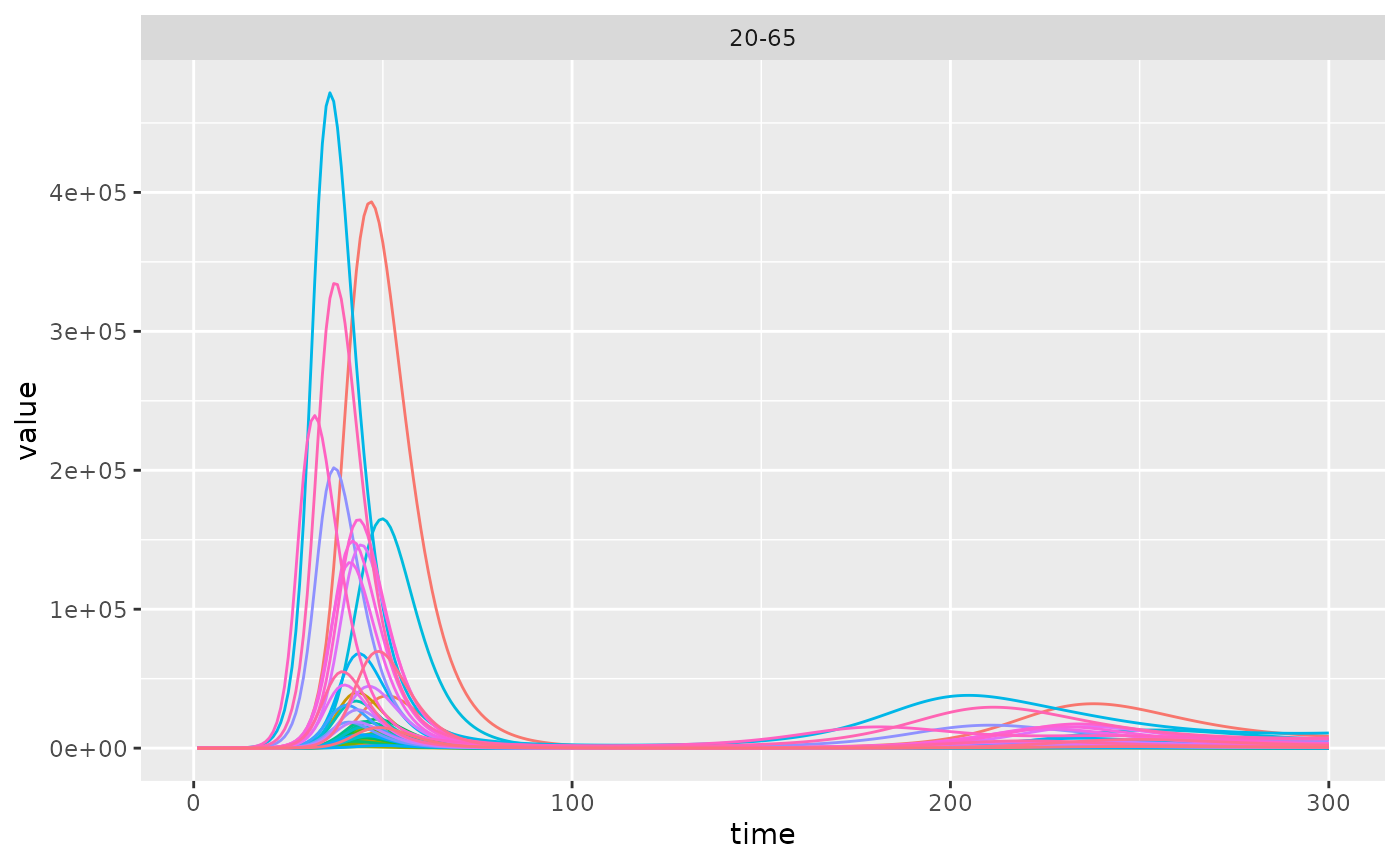
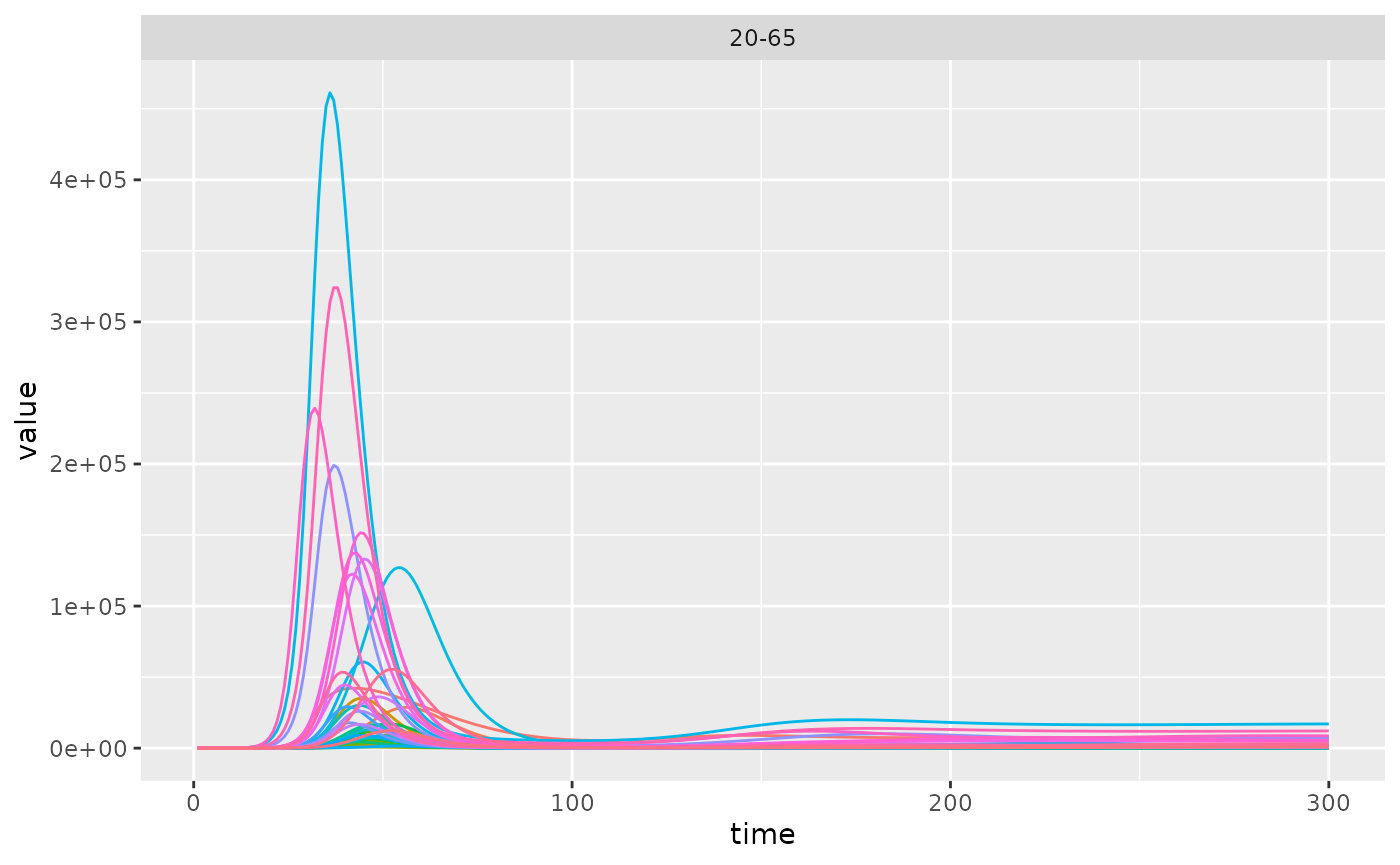
Deploying to gh-pages from @ jameel-institute/daedalus@32c74cb9c1786f2598ecbbac6e1eae20a7282f38 🚀

diff --git a/reference/get_distancing_coefficient.html b/reference/get_distancing_coefficient.html
@@ -1,0 +1,111 @@
+<!DOCTYPE html>
+<!-- Generated by pkgdown: do not edit by hand --><html lang="en"><head><meta http-equiv="Content-Type" content="text/html; charset=UTF-8"><meta charset="utf-8"><meta http-equiv="X-UA-Compatible" content="IE=edge"><meta name="viewport" content="width=device-width, initial-scale=1, shrink-to-fit=no"><title>Coefficient to scale transmission by public concern about the pandemic — get_distancing_coefficient • daedalus</title><script src="../deps/jquery-3.6.0/jquery-3.6.0.min.js"></script><meta name="viewport" content="width=device-width, initial-scale=1, shrink-to-fit=no"><link href="../deps/bootstrap-5.3.1/bootstrap.min.css" rel="stylesheet"><script src="../deps/bootstrap-5.3.1/bootstrap.bundle.min.js"></script><link href="../deps/font-awesome-6.4.2/css/all.min.css" rel="stylesheet"><link href="../deps/font-awesome-6.4.2/css/v4-shims.min.css" rel="stylesheet"><script src="../deps/headroom-0.11.0/headroom.min.js"></script><script src="../deps/headroom-0.11.0/jQuery.headroom.min.js"></script><script src="../deps/bootstrap-toc-1.0.1/bootstrap-toc.min.js"></script><script src="../deps/clipboard.js-2.0.11/clipboard.min.js"></script><script src="../deps/search-1.0.0/autocomplete.jquery.min.js"></script><script src="../deps/search-1.0.0/fuse.min.js"></script><script src="../deps/search-1.0.0/mark.min.js"></script><!-- pkgdown --><script src="../pkgdown.js"></script><meta property="og:title" content="Coefficient to scale transmission by public concern about the pandemic — get_distancing_coefficient"><meta name="description" content="The social distancing coefficient is a value between 1.0 and an
+arbitrary lower limit, which is used to scale the transmission rate and
+represents public concern around the pandemic. The coefficient is 1.0 when
+there are no deaths, and reduces asymptotically to the lower limit as deaths
+increase. Social distancing begins when closures begin, and ends when
+vaccination is complete (not yet implemented)."><meta property="og:description" content="The social distancing coefficient is a value between 1.0 and an
+arbitrary lower limit, which is used to scale the transmission rate and
+represents public concern around the pandemic. The coefficient is 1.0 when
+there are no deaths, and reduces asymptotically to the lower limit as deaths
+increase. Social distancing begins when closures begin, and ends when
+vaccination is complete (not yet implemented)."></head><body>
+    <a href="#main" class="visually-hidden-focusable">Skip to contents</a>
+
+
+    <nav class="navbar navbar-expand-lg fixed-top bg-light" data-bs-theme="light" aria-label="Site navigation"><div class="container">
+
+    <a class="navbar-brand me-2" href="../index.html">daedalus</a>
+
+    <small class="nav-text text-muted me-auto" data-bs-toggle="tooltip" data-bs-placement="bottom" title="Released version">0.0.9</small>
+
+
+    <button class="navbar-toggler" type="button" data-bs-toggle="collapse" data-bs-target="#navbar" aria-controls="navbar" aria-expanded="false" aria-label="Toggle navigation">
+      <span class="navbar-toggler-icon"></span>
+    </button>
+
+    <div id="navbar" class="collapse navbar-collapse ms-3">
+      <ul class="navbar-nav me-auto"><li class="nav-item"><a class="nav-link" href="../articles/daedalus.html">Get started</a></li>
+<li class="active nav-item"><a class="nav-link" href="../reference/index.html">Reference</a></li>
+<li class="nav-item dropdown">
+  <button class="nav-link dropdown-toggle" type="button" id="dropdown-articles" data-bs-toggle="dropdown" aria-expanded="false" aria-haspopup="true">Articles</button>
+  <ul class="dropdown-menu" aria-labelledby="dropdown-articles"><li><a class="dropdown-item" href="../articles/pandemic_costs.html">Evaluating the costs of pandemic scenarios</a></li>
+    <li><a class="dropdown-item" href="../articles/thresholded_response.html">Modelling threshold-dependent economic closures</a></li>
+  </ul></li>
+<li class="nav-item"><a class="nav-link" href="../news/index.html">Changelog</a></li>
+      </ul><ul class="navbar-nav"><li class="nav-item"><form class="form-inline" role="search">
+ <input class="form-control" type="search" name="search-input" id="search-input" autocomplete="off" aria-label="Search site" placeholder="Search for" data-search-index="../search.json"></form></li>
+<li class="nav-item"><a class="external-link nav-link" href="https://github.com/j-idea/daedalus/" aria-label="GitHub"><span class="fa fab fa-github fa-lg"></span></a></li>
+      </ul></div>
+
+
+  </div>
+</nav><div class="container template-reference-topic">
+<div class="row">
+  <main id="main" class="col-md-9"><div class="page-header">
+
+      <h1>Coefficient to scale transmission by public concern about the pandemic</h1>
+      <small class="dont-index">Source: <a href="https://github.com/j-idea/daedalus/blob/main/R/social_distancing.R" class="external-link"><code>R/social_distancing.R</code></a></small>
+      <div class="d-none name"><code>get_distancing_coefficient.Rd</code></div>
+    </div>
+
+    <div class="ref-description section level2">
+    <p>The social distancing coefficient is a value between 1.0 and an
+arbitrary lower limit, which is used to scale the transmission rate and
+represents public concern around the pandemic. The coefficient is 1.0 when
+there are no deaths, and reduces asymptotically to the lower limit as deaths
+increase. Social distancing begins when closures begin, and ends when
+vaccination is complete (<em>not yet implemented</em>).</p>
+    </div>
+
+    <div class="section level2">
+    <h2 id="ref-usage">Usage<a class="anchor" aria-label="anchor" href="#ref-usage"></a></h2>
+    <div class="sourceCode"><pre class="sourceCode r"><code><span><span class="fu">get_distancing_coefficient</span><span class="op">(</span><span class="va">new_deaths</span>, rate <span class="op">=</span> <span class="fl">0.01</span>, lower_limit <span class="op">=</span> <span class="fl">0.2</span><span class="op">)</span></span></code></pre></div>
+    </div>
+
+    <div class="section level2">
+    <h2 id="arguments">Arguments<a class="anchor" aria-label="anchor" href="#arguments"></a></h2>
+
+
+<dl><dt id="arg-new-deaths">new_deaths<a class="anchor" aria-label="anchor" href="#arg-new-deaths"></a></dt>
+<dd><p>The number of new deaths at time <code>t</code>.</p></dd>
+
+
+<dt id="arg-rate">rate<a class="anchor" aria-label="anchor" href="#arg-rate"></a></dt>
+<dd><p>The proportional reduction of social contacts due to each
+additional death. Defaults to 0.01, or a 1% decrease for each additional
+death.</p></dd>
+
+
+<dt id="arg-lower-limit">lower_limit<a class="anchor" aria-label="anchor" href="#arg-lower-limit"></a></dt>
+<dd><p>The lower limit to which social contacts can be reduced.
+Defaults to 0.2, which is equivalent to a greater than a 50% reduction in
+incoming and outgoing contacts.</p></dd>
+
+</dl></div>
+    <div class="section level2">
+    <h2 id="value">Value<a class="anchor" aria-label="anchor" href="#value"></a></h2>
+    <p>A single number between 1 and <code>lower_limit</code> for the social distancing
+coefficient.</p>
+    </div>
+
+  </main><aside class="col-md-3"><nav id="toc" aria-label="Table of contents"><h2>On this page</h2>
+    </nav></aside></div>
+
+
+    <footer><div class="pkgdown-footer-left">
+  <p>Developed by Pratik Gupte.</p>
+</div>
+
+<div class="pkgdown-footer-right">
+  <p>Site built with <a href="https://pkgdown.r-lib.org/" class="external-link">pkgdown</a> 2.1.1.</p>
+</div>
+
+    </footer></div>
+
+
+
+
+
+  </body></html>
+

diff --git a/reference/get_costs.html b/reference/get_costs.html
@@ -7,7 +7,7 @@
 
     <a class="navbar-brand me-2" href="../index.html">daedalus</a>
 
-    <small class="nav-text text-muted me-auto" data-bs-toggle="tooltip" data-bs-placement="bottom" title="Released version">0.0.8</small>
+    <small class="nav-text text-muted me-auto" data-bs-toggle="tooltip" data-bs-placement="bottom" title="Released version">0.0.9</small>
 
 
     <button class="navbar-toggler" type="button" data-bs-toggle="collapse" data-bs-target="#navbar" aria-controls="navbar" aria-expanded="false" aria-label="Toggle navigation">
@@ -111,37 +111,37 @@ to have the same value.</p>
 <span class="r-in"><span></span></span>
 <span class="r-in"><span><span class="fu">get_costs</span><span class="op">(</span><span class="va">output</span><span class="op">)</span></span></span>
 <span class="r-out co"><span class="r-pr">#&gt;</span> $total_cost</span>
-<span class="r-out co"><span class="r-pr">#&gt;</span> [1] 1080754</span>
+<span class="r-out co"><span class="r-pr">#&gt;</span> [1] 354087.8</span>
 <span class="r-out co"><span class="r-pr">#&gt;</span> </span>
 <span class="r-out co"><span class="r-pr">#&gt;</span> $economic_costs</span>
 <span class="r-out co"><span class="r-pr">#&gt;</span> $economic_costs$economic_cost_total</span>
-<span class="r-out co"><span class="r-pr">#&gt;</span> [1] 20582.91</span>
+<span class="r-out co"><span class="r-pr">#&gt;</span> [1] 18071.59</span>
 <span class="r-out co"><span class="r-pr">#&gt;</span> </span>
 <span class="r-out co"><span class="r-pr">#&gt;</span> $economic_costs$economic_cost_closures</span>
 <span class="r-out co"><span class="r-pr">#&gt;</span> [1] 0</span>
 <span class="r-out co"><span class="r-pr">#&gt;</span> </span>
 <span class="r-out co"><span class="r-pr">#&gt;</span> $economic_costs$economic_cost_absences</span>
-<span class="r-out co"><span class="r-pr">#&gt;</span> [1] 20582.91</span>
+<span class="r-out co"><span class="r-pr">#&gt;</span> [1] 18071.59</span>
 <span class="r-out co"><span class="r-pr">#&gt;</span> </span>
 <span class="r-out co"><span class="r-pr">#&gt;</span> </span>
 <span class="r-out co"><span class="r-pr">#&gt;</span> $education_costs</span>
 <span class="r-out co"><span class="r-pr">#&gt;</span> $education_costs$education_cost_total</span>
-<span class="r-out co"><span class="r-pr">#&gt;</span> [1] 1372.606</span>
+<span class="r-out co"><span class="r-pr">#&gt;</span> [1] 1335.015</span>
 <span class="r-out co"><span class="r-pr">#&gt;</span> </span>
 <span class="r-out co"><span class="r-pr">#&gt;</span> $education_costs$education_cost_closures</span>
 <span class="r-out co"><span class="r-pr">#&gt;</span> [1] 0</span>
 <span class="r-out co"><span class="r-pr">#&gt;</span> </span>
 <span class="r-out co"><span class="r-pr">#&gt;</span> $education_costs$education_cost_absences</span>
-<span class="r-out co"><span class="r-pr">#&gt;</span> [1] 1372.606</span>
+<span class="r-out co"><span class="r-pr">#&gt;</span> [1] 1335.015</span>
 <span class="r-out co"><span class="r-pr">#&gt;</span> </span>
 <span class="r-out co"><span class="r-pr">#&gt;</span> </span>
 <span class="r-out co"><span class="r-pr">#&gt;</span> $life_years_lost</span>
 <span class="r-out co"><span class="r-pr">#&gt;</span> $life_years_lost$life_years_lost_total</span>
-<span class="r-out co"><span class="r-pr">#&gt;</span> [1] 1058799</span>
+<span class="r-out co"><span class="r-pr">#&gt;</span> [1] 334681.2</span>
 <span class="r-out co"><span class="r-pr">#&gt;</span> </span>
 <span class="r-out co"><span class="r-pr">#&gt;</span> $life_years_lost$life_years_lost_age</span>
-<span class="r-out co"><span class="r-pr">#&gt;</span>      0-4     5-19    20-65      65+ </span>
-<span class="r-out co"><span class="r-pr">#&gt;</span> 145010.9 466524.9 342897.1 104365.6 </span>
+<span class="r-out co"><span class="r-pr">#&gt;</span>        0-4       5-19      20-65        65+ </span>
+<span class="r-out co"><span class="r-pr">#&gt;</span>   6274.666  57194.460 268082.938   3129.118 </span>
 <span class="r-out co"><span class="r-pr">#&gt;</span> </span>
 <span class="r-out co"><span class="r-pr">#&gt;</span> </span>
 </code></pre></div>

diff --git a/news/index.html b/news/index.html
@@ -7,7 +7,7 @@
 
     <a class="navbar-brand me-2" href="../index.html">daedalus</a>
 
-    <small class="nav-text text-muted me-auto" data-bs-toggle="tooltip" data-bs-placement="bottom" title="Released version">0.0.8</small>
+    <small class="nav-text text-muted me-auto" data-bs-toggle="tooltip" data-bs-placement="bottom" title="Released version">0.0.9</small>
 
 
     <button class="navbar-toggler" type="button" data-bs-toggle="collapse" data-bs-target="#navbar" aria-controls="navbar" aria-expanded="false" aria-label="Toggle navigation">
@@ -38,6 +38,14 @@
       <small>Source: <a href="https://github.com/j-idea/daedalus/blob/main/NEWS.md" class="external-link"><code>NEWS.md</code></a></small>
     </div>
 
+    <div class="section level2">
+<h2 class="pkg-version" data-toc-text="0.0.9" id="daedalus-009">daedalus 0.0.9<a class="anchor" aria-label="anchor" href="#daedalus-009"></a></h2>
+<p>This patch version adds a spontaneous social distancing mechanism to the model in the internal function <code><a href="../reference/get_distancing_coefficient.html">get_distancing_coefficient()</a></code>, which modifies the infection transmission rate based on the number of new deaths. The intention is to model public concern that leads to a spontaneous reduction in community social contacts.</p>
+<ul><li>Social distancing is independent of the specific response strategy chosen, but is active while a response strategy is active. In future, social distancing will be conditioned on vaccination regime completion.</li>
+<li>Social distancing is active in the ‘no response’ scenario.</li>
+<li>Workplace contacts are not affected.</li>
+<li>Social distancing scales the transmission rate by a value between 1.0 (no distancing) and the <code>lower_limit</code> (arbitrary value of 0.2) using an exponential decay function.</li>
+</ul></div>
     <div class="section level2">
 <h2 class="pkg-version" data-toc-text="0.0.8" id="daedalus-008">daedalus 0.0.8<a class="anchor" aria-label="anchor" href="#daedalus-008"></a></h2>
 <p>This patch adds hospital capacity data and two downstream effects.</p>

diff --git a/authors.html b/authors.html
@@ -7,7 +7,7 @@
 
     <a class="navbar-brand me-2" href="index.html">daedalus</a>
 
-    <small class="nav-text text-muted me-auto" data-bs-toggle="tooltip" data-bs-placement="bottom" title="Released version">0.0.8</small>
+    <small class="nav-text text-muted me-auto" data-bs-toggle="tooltip" data-bs-placement="bottom" title="Released version">0.0.9</small>
 
 
     <button class="navbar-toggler" type="button" data-bs-toggle="collapse" data-bs-target="#navbar" aria-controls="navbar" aria-expanded="false" aria-label="Toggle navigation">
@@ -56,13 +56,13 @@
 
       <p>Gupte P (2024).
 <em>daedalus: Model health, social, and economic costs of a pandemic using _DAEDALUS_</em>.
-R package version 0.0.8, <a href="https://github.com/j-idea/daedalus" class="external-link">https://github.com/j-idea/daedalus</a>.
+R package version 0.0.9, <a href="https://github.com/j-idea/daedalus" class="external-link">https://github.com/j-idea/daedalus</a>.
 </p>
       <pre>@Manual{,
   title = {daedalus: Model health, social, and economic costs of a pandemic using _DAEDALUS_},
   author = {Pratik Gupte},
   year = {2024},
-  note = {R package version 0.0.8},
+  note = {R package version 0.0.9},
   url = {https://github.com/j-idea/daedalus},
 }</pre>
     </div>

diff --git a/reference/index.html b/reference/index.html
@@ -7,7 +7,7 @@
 
     <a class="navbar-brand me-2" href="../index.html">daedalus</a>
 
-    <small class="nav-text text-muted me-auto" data-bs-toggle="tooltip" data-bs-placement="bottom" title="Released version">0.0.8</small>
+    <small class="nav-text text-muted me-auto" data-bs-toggle="tooltip" data-bs-placement="bottom" title="Released version">0.0.9</small>
 
 
     <button class="navbar-toggler" type="button" data-bs-toggle="collapse" data-bs-target="#navbar" aria-controls="navbar" aria-expanded="false" aria-label="Toggle navigation">
@@ -244,6 +244,12 @@
 
         </dt>
         <dd>Get closure time limits and calculate duration</dd>
+      </dl><dl><dt>
+
+          <code><a href="get_distancing_coefficient.html">get_distancing_coefficient()</a></code>
+
+        </dt>
+        <dd>Coefficient to scale transmission by public concern about the pandemic</dd>
       </dl><dl><dt>
 
           <code><a href="get_hospitalisations.html">get_hospitalisations()</a></code>

diff --git a/reference/class_daedalus_output.html b/reference/class_daedalus_output.html
@@ -13,7 +13,7 @@ Print &amp;lt;daedalus_output&amp;gt; class objects"></head><body>
 
     <a class="navbar-brand me-2" href="../index.html">daedalus</a>
 
-    <small class="nav-text text-muted me-auto" data-bs-toggle="tooltip" data-bs-placement="bottom" title="Released version">0.0.8</small>
+    <small class="nav-text text-muted me-auto" data-bs-toggle="tooltip" data-bs-placement="bottom" title="Released version">0.0.9</small>
 
 
     <button class="navbar-toggler" type="button" data-bs-toggle="collapse" data-bs-target="#navbar" aria-controls="navbar" aria-expanded="false" aria-label="Toggle navigation">

diff --git a/reference/class_country.html b/reference/class_country.html
@@ -15,7 +15,7 @@ characteristics for the DAEDALUS model."></head><body>
 
     <a class="navbar-brand me-2" href="../index.html">daedalus</a>
 
-    <small class="nav-text text-muted me-auto" data-bs-toggle="tooltip" data-bs-placement="bottom" title="Released version">0.0.8</small>
+    <small class="nav-text text-muted me-auto" data-bs-toggle="tooltip" data-bs-placement="bottom" title="Released version">0.0.9</small>
 
 
     <button class="navbar-toggler" type="button" data-bs-toggle="collapse" data-bs-target="#navbar" aria-controls="navbar" aria-expanded="false" aria-label="Toggle navigation">

diff --git a/reference/class_infection.html b/reference/class_infection.html
@@ -15,7 +15,7 @@ characteristics for the DAEDALUS model."></head><body>
 
     <a class="navbar-brand me-2" href="../index.html">daedalus</a>
 
-    <small class="nav-text text-muted me-auto" data-bs-toggle="tooltip" data-bs-placement="bottom" title="Released version">0.0.8</small>
+    <small class="nav-text text-muted me-auto" data-bs-toggle="tooltip" data-bs-placement="bottom" title="Released version">0.0.9</small>
 
 
     <button class="navbar-toggler" type="button" data-bs-toggle="collapse" data-bs-target="#navbar" aria-controls="navbar" aria-expanded="false" aria-label="Toggle navigation">

diff --git a/reference/model_constants.html b/reference/model_constants.html
@@ -11,7 +11,7 @@ specific to the epidemiological model."></head><body>
 
     <a class="navbar-brand me-2" href="../index.html">daedalus</a>
 
-    <small class="nav-text text-muted me-auto" data-bs-toggle="tooltip" data-bs-placement="bottom" title="Released version">0.0.8</small>
+    <small class="nav-text text-muted me-auto" data-bs-toggle="tooltip" data-bs-placement="bottom" title="Released version">0.0.9</small>
 
 
     <button class="navbar-toggler" type="button" data-bs-toggle="collapse" data-bs-target="#navbar" aria-controls="navbar" aria-expanded="false" aria-label="Toggle navigation">

diff --git a/reference/closure_data.html b/reference/closure_data.html
@@ -13,7 +13,7 @@ implementation ("heavy" and "light").'></head><body>
 
     <a class="navbar-brand me-2" href="../index.html">daedalus</a>
 
-    <small class="nav-text text-muted me-auto" data-bs-toggle="tooltip" data-bs-placement="bottom" title="Released version">0.0.8</small>
+    <small class="nav-text text-muted me-auto" data-bs-toggle="tooltip" data-bs-placement="bottom" title="Released version">0.0.9</small>
 
 
     <button class="navbar-toggler" type="button" data-bs-toggle="collapse" data-bs-target="#navbar" aria-controls="navbar" aria-expanded="false" aria-label="Toggle navigation">

diff --git a/reference/country_data.html b/reference/country_data.html
@@ -27,7 +27,7 @@ missing data for a particular sector."></head><body>
 
     <a class="navbar-brand me-2" href="../index.html">daedalus</a>
 
-    <small class="nav-text text-muted me-auto" data-bs-toggle="tooltip" data-bs-placement="bottom" title="Released version">0.0.8</small>
+    <small class="nav-text text-muted me-auto" data-bs-toggle="tooltip" data-bs-placement="bottom" title="Released version">0.0.9</small>
 
 
     <button class="navbar-toggler" type="button" data-bs-toggle="collapse" data-bs-target="#navbar" aria-controls="navbar" aria-expanded="false" aria-label="Toggle navigation">

diff --git a/reference/economic_contacts.html b/reference/economic_contacts.html
@@ -9,7 +9,7 @@ economic sector of the DAEDALUS model."></head><body>
 
     <a class="navbar-brand me-2" href="../index.html">daedalus</a>
 
-    <small class="nav-text text-muted me-auto" data-bs-toggle="tooltip" data-bs-placement="bottom" title="Released version">0.0.8</small>
+    <small class="nav-text text-muted me-auto" data-bs-toggle="tooltip" data-bs-placement="bottom" title="Released version">0.0.9</small>
 
 
     <button class="navbar-toggler" type="button" data-bs-toggle="collapse" data-bs-target="#navbar" aria-controls="navbar" aria-expanded="false" aria-label="Toggle navigation">
